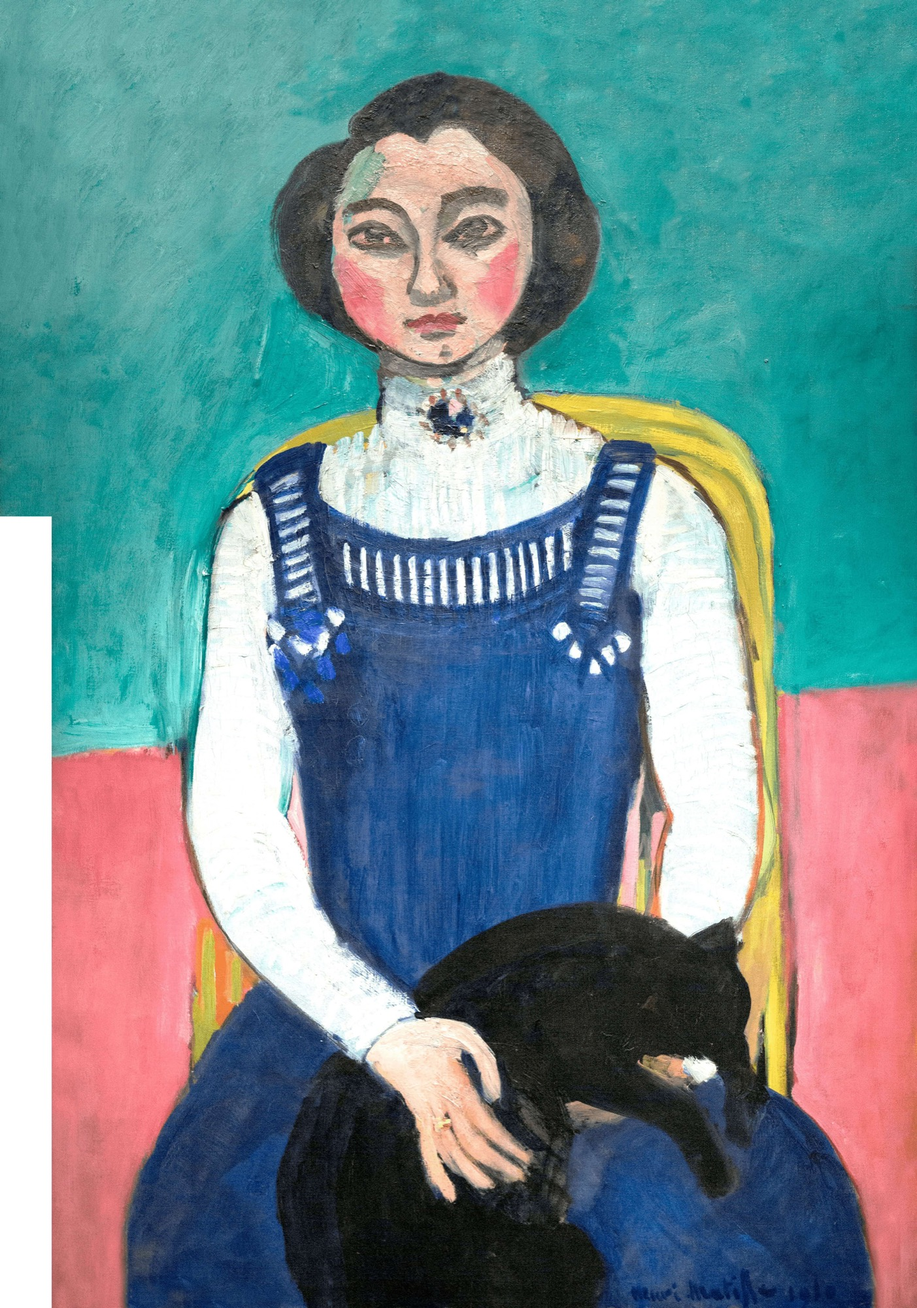
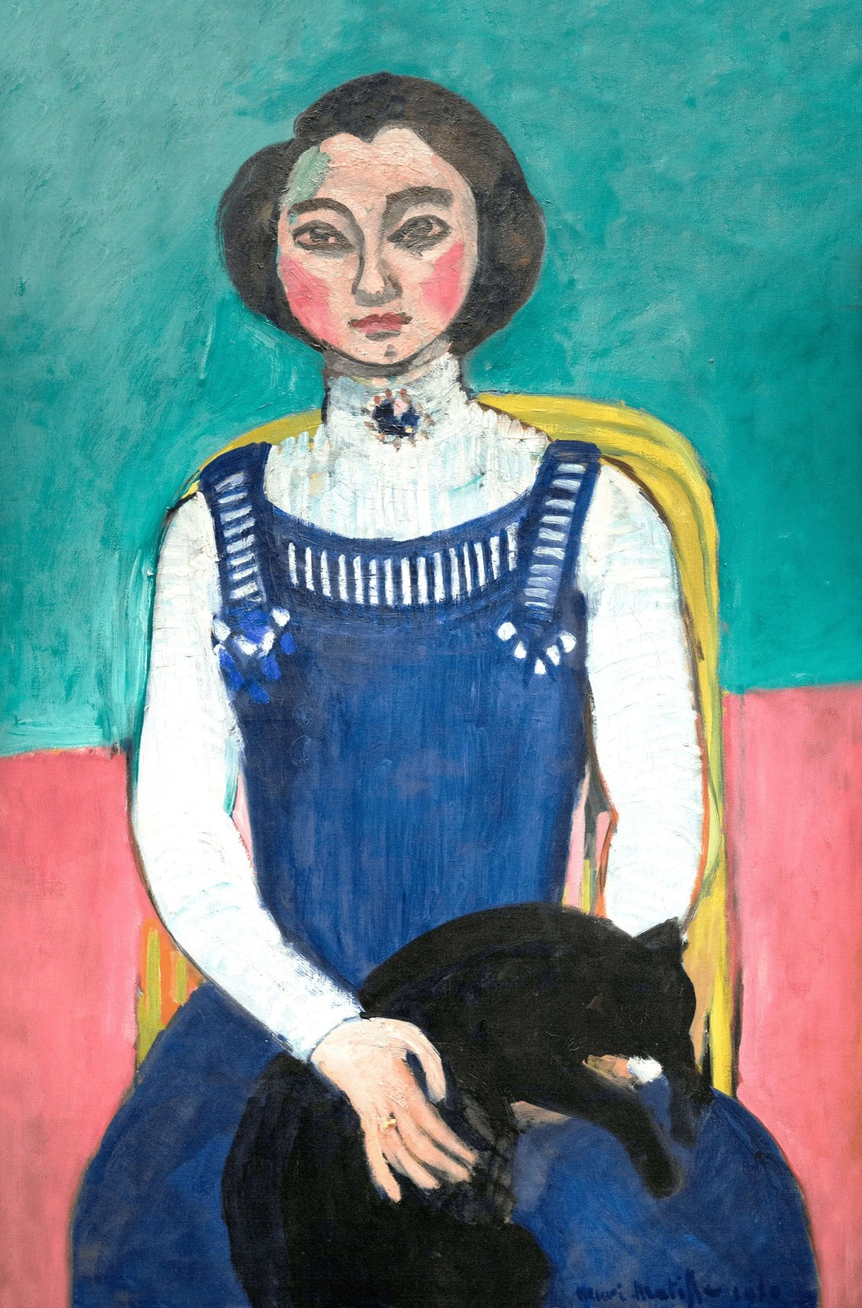
fix(reader): inline figures no longer pile their labels over the opener (OPENBRAIN-68)
Below xl (phones and laptops under 1300px) the Retina opener was covered by
the labels of every inline figure in the chapter. IllustrationComp's label
layers are position: fixed, written for the pinned desktop pane; inline,
fixed pinned all 17 figures' layers to the top of the viewport.

- IllustrationInline: `contain: layout paint` on the stage, so it is the
  containing block for those layers and clips them. Stage heights are
  unchanged.
- 00-matisse-bg.jpg: crop the 78px white block baked into the left edge of
  the Retina cover (it showed as a white strip down the opener).
- Smoke test: fail when an inline figure paints outside itself at the top
  of the page. It fails on production today (retina @ 390 and 1280) and
  passes with this fix.

diff --git a/src/components/chapter/Illus/IllustrationInline.vue b/src/components/chapter/Illus/IllustrationInline.vue
@@ -224,6 +224,12 @@ const youtubeSrc = computed(() =>
   position: relative;
   width: 100%;
   min-height: 320px;
+  /* IllustrationComp's label layers are position: fixed, written for the
+     pinned desktop pane. Inline, fixed pinned every figure's labels to the
+     top of the viewport, piled over the chapter opener (OPENBRAIN-68).
+     Layout containment makes the stage their containing block, and paint
+     containment keeps them inside it. */
+  contain: layout paint;
 }
 
 .illu-expand,
